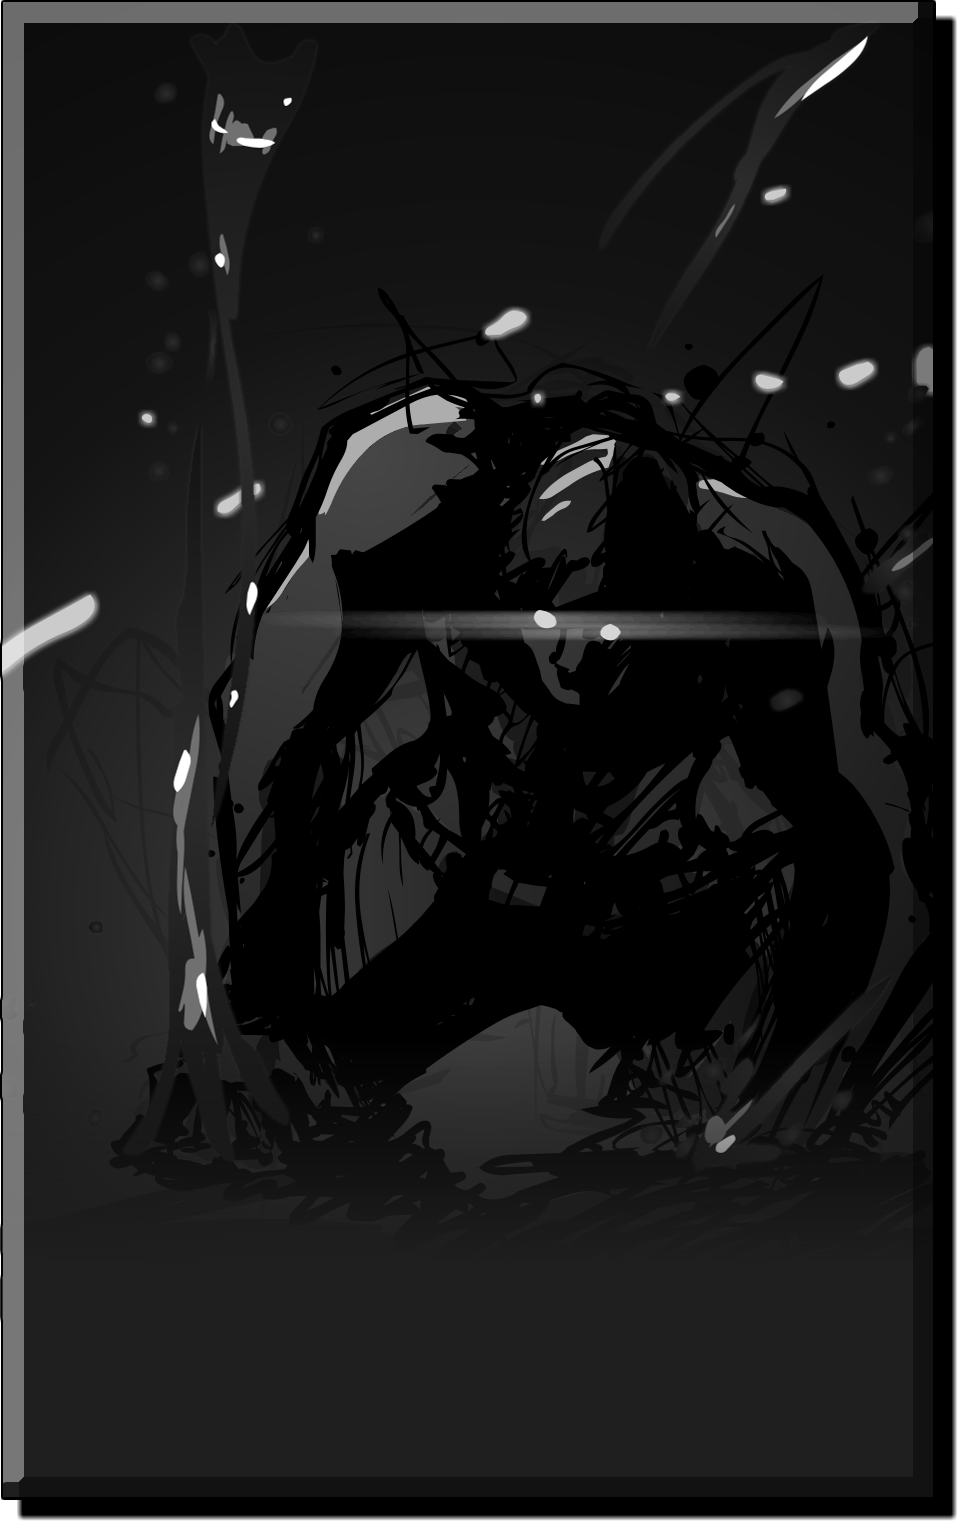
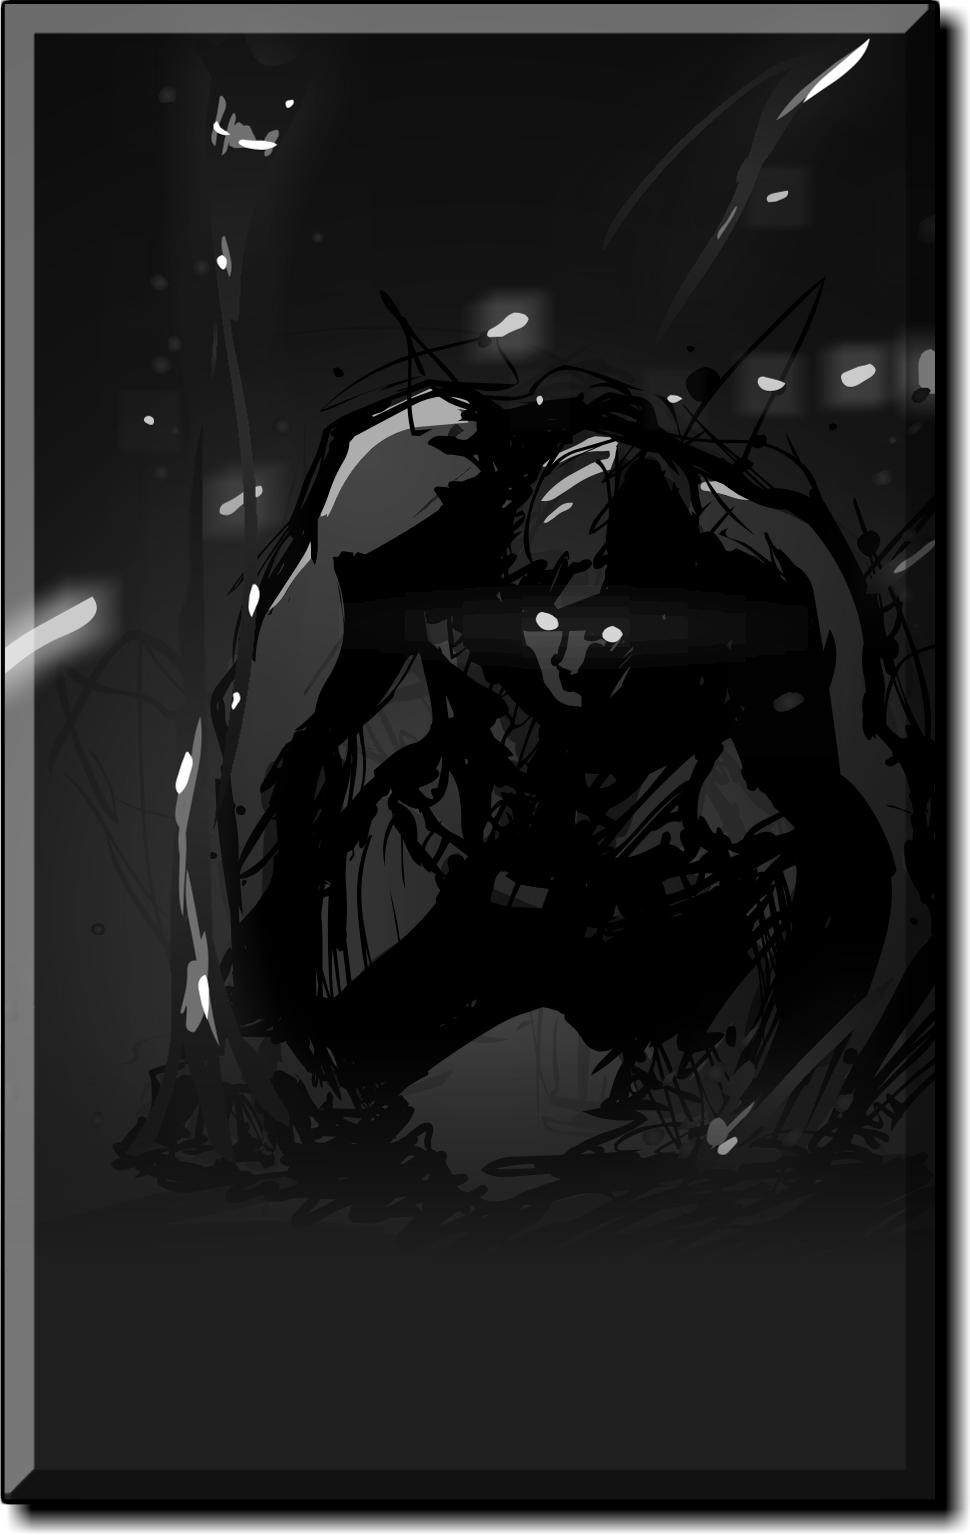
fix: correct ffdec's misplaced clip masks and regenerate the class cards
Since jpexs afbe4fa33 ffdec positions a clip mask with the absolute matrix,
which leaves out where a filtered sprite's own image sits in its parent, so
the mask lands off by that offset. On the three class cards that's 51, 12
and 1 design px, which cut the biological card down to 159 px wide with art
past its mask and moved the other two.

Render.java now hands each sprite its own matrix as the absolute one, which
is pixel-identical to changing absMat to mat in Timeline.java. Only the six
cards change out of the 3893 generated files. extract_start_screens refuses
three cards of different sizes, since all three draw the same mask through
the same filters, and it fails on the render this fixes.

diff --git a/dev/urchin_dev/swf/java/Render.java b/dev/urchin_dev/swf/java/Render.java
@@ -40,6 +40,15 @@
 // clip, so hiding a mask unclips everything under it, the same as stripping
 // one (6622d79). strip.py refuses the same ids first.
 //
+// ffdec draws a sprite with a filter or a blend mode into its own image and then
+// composites that image onto its parent. Since jpexs afbe4fa33 ("use outline for
+// clipping"), a clip mask inside such a sprite is placed with the absolute matrix,
+// which leaves out where that image sits in its parent, so the mask lands off by
+// exactly that offset. That cut 51 design px off the left of the biological class
+// card and let art through on its right. ClipPlacedTimeline passes each sprite's
+// own matrix as the absolute matrix, and the only other readers of that matrix are
+// cursor hit tests, which a render here never has.
+//
 // Overrides are undone after each job, so jobs in one load do not leak into
 // each other. Each job prints one JSON line with the canvas size, the rect the
 // canvas was sized from (xmin to ymax) and the displayRect without the filter
@@ -50,19 +59,23 @@ import com.eclipsesource.json.JsonObject;
 import com.eclipsesource.json.JsonValue;
 import com.jpexs.decompiler.flash.SWF;
 import com.jpexs.decompiler.flash.configuration.Configuration;
+import com.jpexs.decompiler.flash.exporters.commonshape.ExportRectangle;
 import com.jpexs.decompiler.flash.exporters.commonshape.Matrix;
 import com.jpexs.decompiler.flash.tags.DefineSpriteTag;
 import com.jpexs.decompiler.flash.tags.SetBackgroundColorTag;
 import com.jpexs.decompiler.flash.tags.base.CharacterTag;
+import com.jpexs.decompiler.flash.tags.base.RenderContext;
 import com.jpexs.decompiler.flash.timeline.DepthState;
 import com.jpexs.decompiler.flash.timeline.Frame;
 import com.jpexs.decompiler.flash.timeline.Timeline;
+import com.jpexs.decompiler.flash.types.ColorTransform;
 import com.jpexs.decompiler.flash.types.RECT;
 import com.jpexs.helpers.SerializableImage;
 import java.awt.Color;
 import java.io.ByteArrayInputStream;
 import java.io.ByteArrayOutputStream;
 import java.io.File;
+import java.lang.reflect.Field;
 import java.nio.file.Files;
 import java.nio.file.Path;
 import java.util.ArrayList;
@@ -99,7 +112,7 @@ public class Render {
             for (JsonValue id : array(load, "strip_characters")) {
                 strip.add(id.asInt());
             }
-            Render render = new Render(load(data, strip));
+            Render render = new Render(placeClipsOnTheirOwnImage(load(data, strip)));
             System.err.printf("loaded %s without %s in %.2fs%n", spec.get("swf").asString(), strip,
                     (System.nanoTime() - start) / 1e9);
             for (JsonValue job : load.get("jobs").asArray()) {
@@ -136,6 +149,34 @@ public class Render {
         ByteArrayOutputStream buffer = new ByteArrayOutputStream();
         swf.saveTo(buffer);
         return new SWF(new ByteArrayInputStream(buffer.toByteArray()), false);
+    }
+
+    static SWF placeClipsOnTheirOwnImage(SWF swf) throws Exception {
+        Field field = DefineSpriteTag.class.getDeclaredField("timeline");
+        field.setAccessible(true);
+        for (CharacterTag character : swf.getCharacters(false).values()) {
+            if (character instanceof DefineSpriteTag sprite) {
+                field.set(sprite, new ClipPlacedTimeline(swf, sprite, sprite.getTimeline()));
+            }
+        }
+        return swf;
+    }
+
+    static final class ClipPlacedTimeline extends Timeline {
+        ClipPlacedTimeline(SWF swf, DefineSpriteTag sprite, Timeline original) {
+            super(swf, sprite, original.id, original.displayRect, original.filterDimension);
+        }
+
+        @Override
+        public void toImage(int frame, int time, RenderContext renderContext, SerializableImage image,
+                SerializableImage fullImage, boolean isClip, Matrix transformation, Matrix strokeTransformation,
+                Matrix absoluteTransformation, ColorTransform colorTransform, double unzoom, boolean sameImage,
+                ExportRectangle viewRect, ExportRectangle viewRectRaw, Matrix fullTransformation, boolean scaleStrokes,
+                int drawMode, int blendMode, boolean canUseSmoothing, List<Integer> ignoreDepths, int aaScale) {
+            super.toImage(frame, time, renderContext, image, fullImage, isClip, transformation, strokeTransformation,
+                    transformation, colorTransform, unzoom, sameImage, viewRect, viewRectRaw, fullTransformation,
+                    scaleStrokes, drawMode, blendMode, canUseSmoothing, ignoreDepths, aaScale);
+        }
     }
 
     Timeline timeline(int id) {

diff --git a/dev/urchin_dev/swf/extract/start_screens.py b/dev/urchin_dev/swf/extract/start_screens.py
@@ -44,10 +44,13 @@
 # does. Each PNG is then trimmed to its own opaque content and the printed
 # rect says where that trimmed image belongs on the 800x575 stage.
 #
-# This needs an ffdec built from the jpexs master branch. Nightly build 3544
-# mis-renders exactly these sprites: the biological card comes out 136 design
-# px wide instead of 191 with its art leaking past its clip mask, which is a
-# bevel-over-clip-mask bug rather than anything about this SWF.
+# These renders need java/Render.java. Each card's art sits behind a clip mask
+# inside the sprite that carries the filters, and since jpexs afbe4fa33 ffdec
+# puts such a mask in the wrong place, which the driver corrects. Without it the
+# biological card comes out 159 design px wide instead of 194 with its art past
+# its mask, and the other two shift. Nightly build 3544 showed the same symptom,
+# at 136 wide. write_cards refuses cards of different sizes, because all three
+# draw the same mask through the same filters.
 #
 # Run: uv run extract_start_screens
 from __future__ import annotations
@@ -101,14 +104,19 @@ def write_cards(
     """Write both states of all three cards, trimmed to the card itself, and
     return each one's rect on the stage."""
     CARDS_DIR.mkdir(parents=True, exist_ok=True)
-    rects = {}
+    rests = {}
     for name in sorted(CARDS):
         # Both states draw the same card through the same filters, so the
         # resting state's bbox keeps the two PNGs the same size and the same
         # rect.
-        base = render.trim(cards[(name, BASE_CARD_FRAME)])
-        if base is None:
+        rests[name] = render.trim(cards[(name, BASE_CARD_FRAME)])
+        if rests[name] is None:
             raise RuntimeError(f"{name} (cid {CARDS[name]}) rendered empty")
+    sizes = {name: rest.image.size for name, rest in rests.items()}
+    if len(set(sizes.values())) != 1:
+        raise RuntimeError(f"the three cards came out different sizes: {sizes}")
+    rects = {}
+    for name, base in rests.items():
         rects[name] = base.rect
         for frame, suffix in ((BASE_CARD_FRAME, "_gray"), (HOVER_CARD_FRAME, "")):
             out = CARDS_DIR / f"{name}{suffix}.png"

diff --git a/CLAUDE.md b/CLAUDE.md
@@ -53,7 +53,9 @@ entry names its evidence so you can check it instead of trusting it.
   `SCRIPT ERROR`, because a script error still exits 0.
 - ffdec must be at `~/.local/bin/ffdec` and built from the jpexs **master**
   branch. Nightly build 3544 mis-renders bevel-over-clip-mask, which silently
-  shrank the biological class card from 191 to 136 design px (`fd755b3`).
+  shrank the biological class card from 191 to 136 design px (`fd755b3`). Master
+  has had the same symptom since jpexs `afbe4fa33`, and `Render.java` corrects it
+  (see Extracting art).
 
 ## Reading the ActionScript
 
@@ -140,6 +142,16 @@ entry names its evidence so you can check it instead of trusting it.
   "Thurman McPown" because DefineSprite 3317 places the member bar container at
   depth 7 and nothing stripped it. Before accepting a UI render, grep the
   sprite's descendants for `initialText`.
+- **A clip mask inside a sprite with a filter lands in the wrong place on ffdec
+  since jpexs `afbe4fa33`.** ffdec draws that sprite into its own image and then
+  positions the mask with a matrix that leaves out where that image sits, so the
+  mask is off by that offset. Measured on the three class cards, it is 51, 12
+  and 1 design px, which shrank the biological card to 159 px wide and moved the
+  other two. `Render.java`'s `ClipPlacedTimeline` corrects it, pixel-identical to
+  changing `absMat` to `mat` at that line of `Timeline.java`. Of the 3,893
+  generated files only the six cards change, because every other extractor renders
+  the filtered sprite itself rather than its parent. The ffdec CLI still has the
+  bug, and none of the four extracted cutscenes reach a case it would change.
 - **UI chrome is full of clip masks.** DefineSprite 3317 alone places two, at
   `clipDepth` 57 and 4, and the first is what keeps the member bars inside
   their panel. Strip the content, never the mask.
